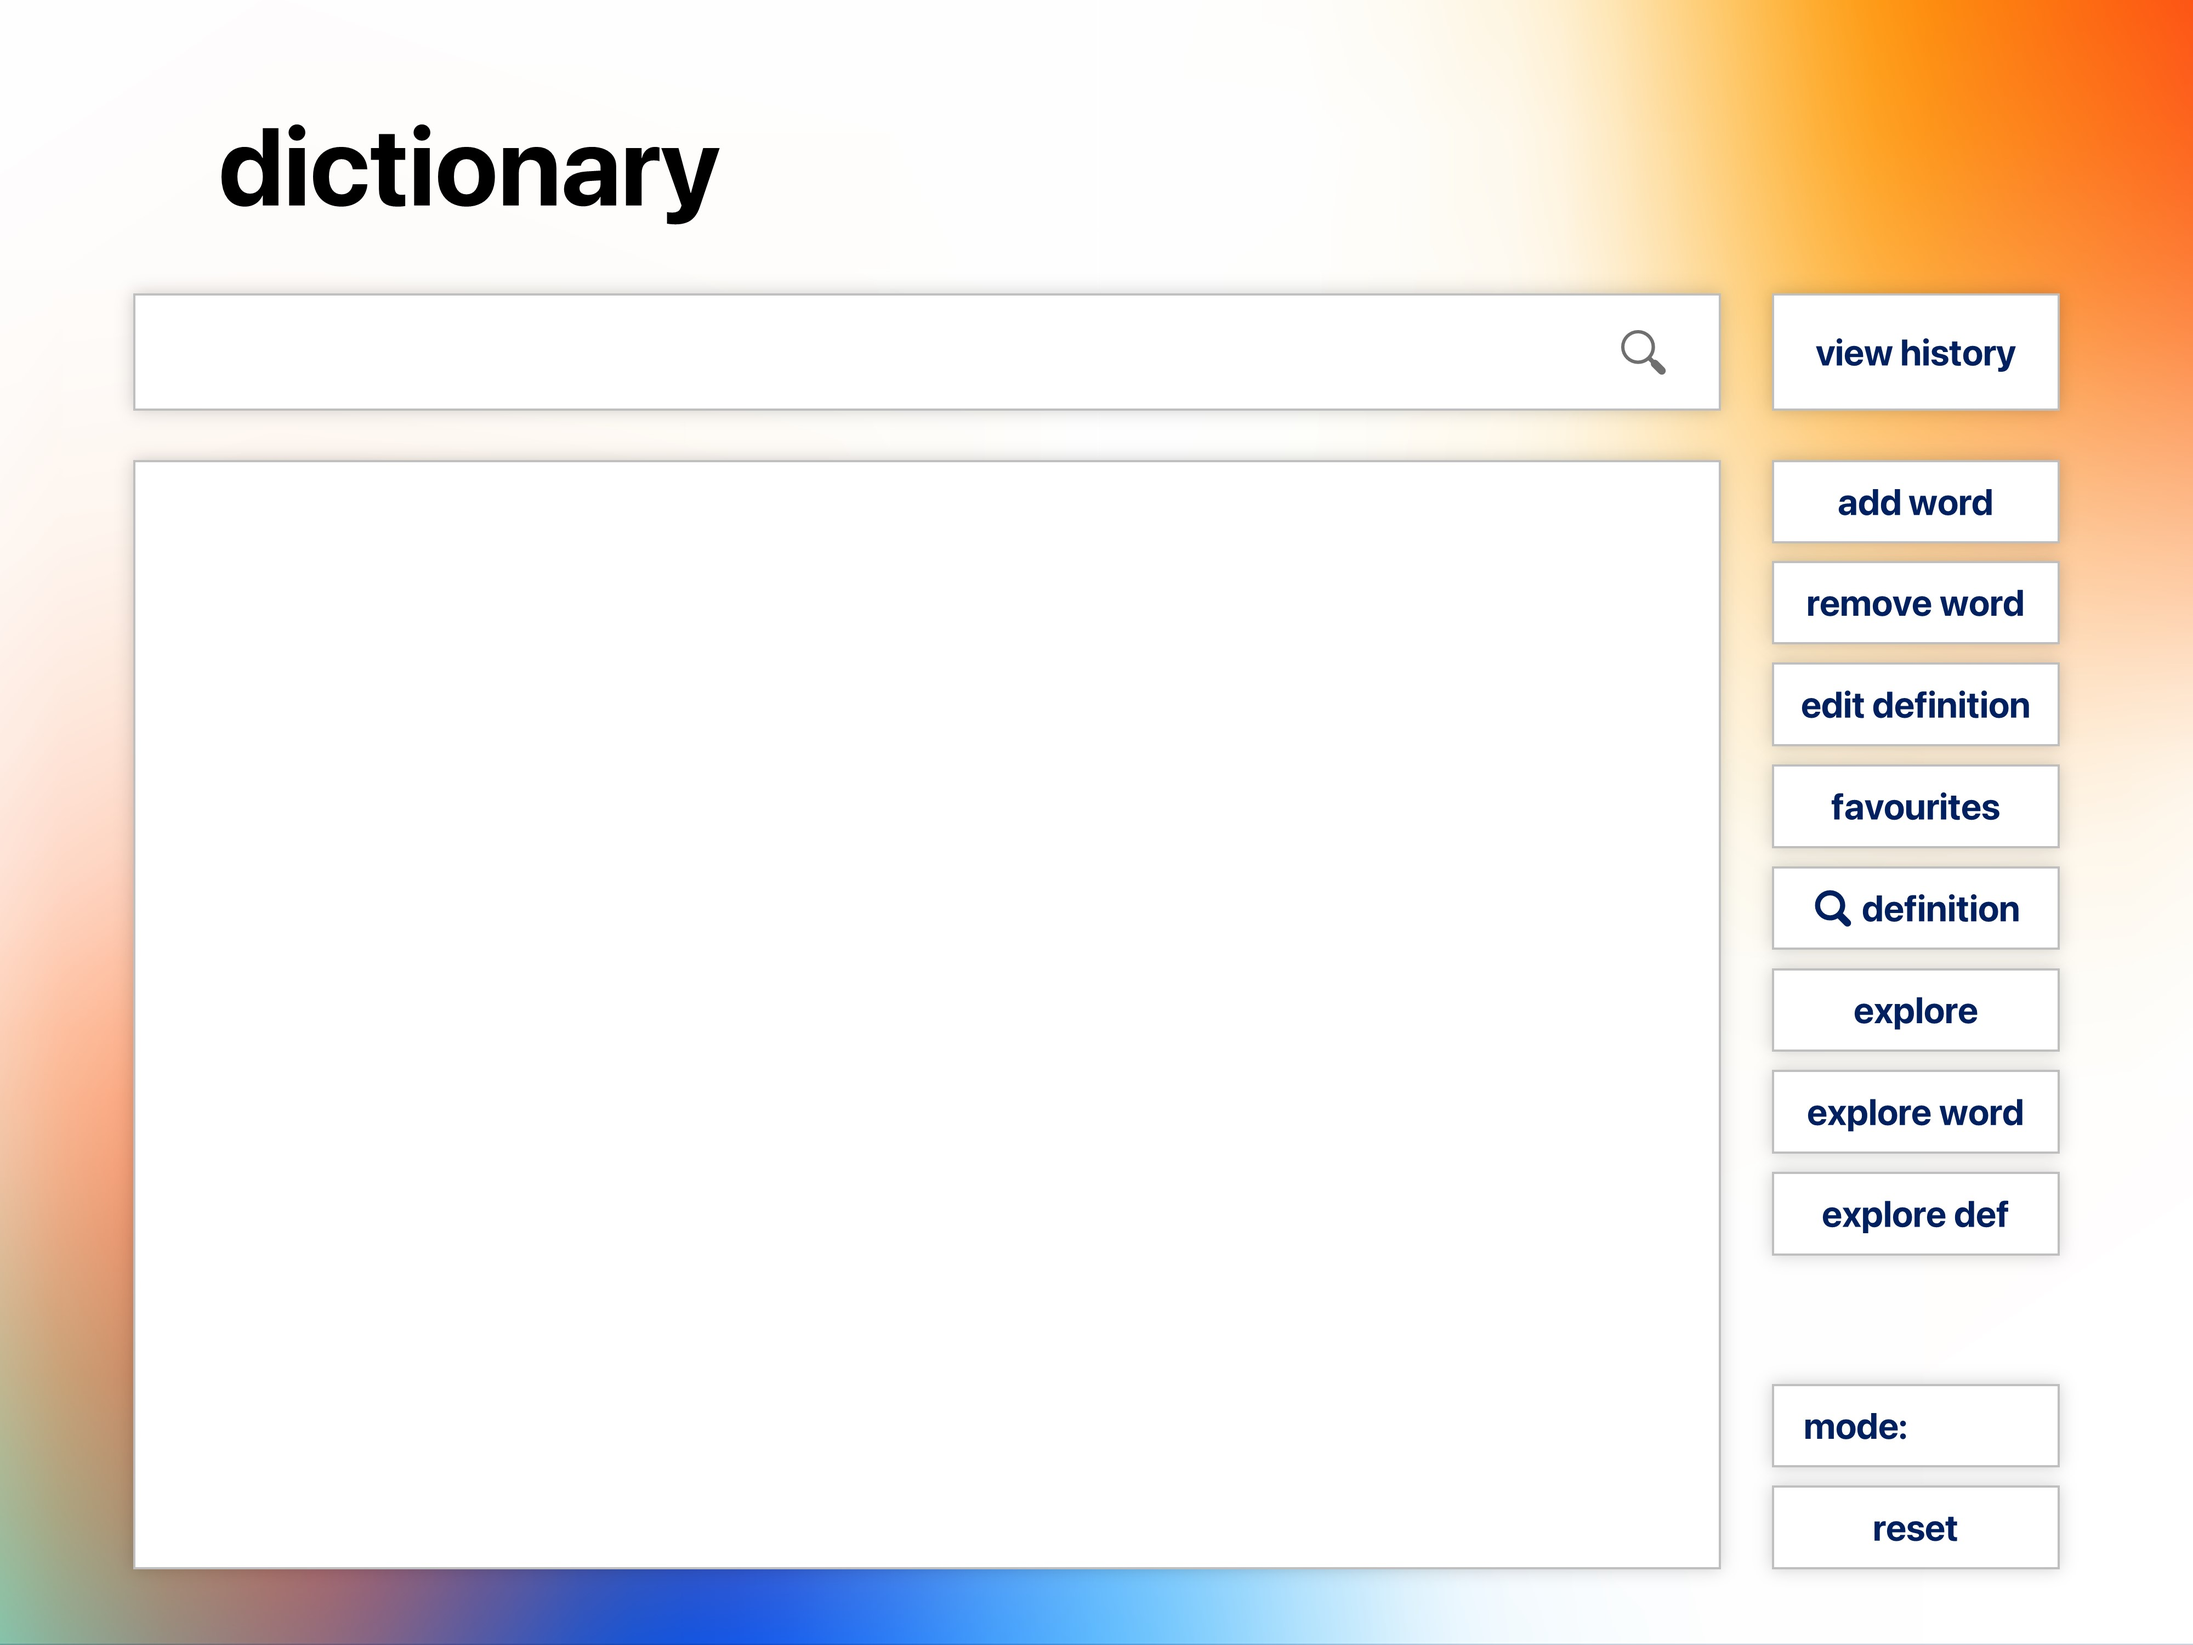
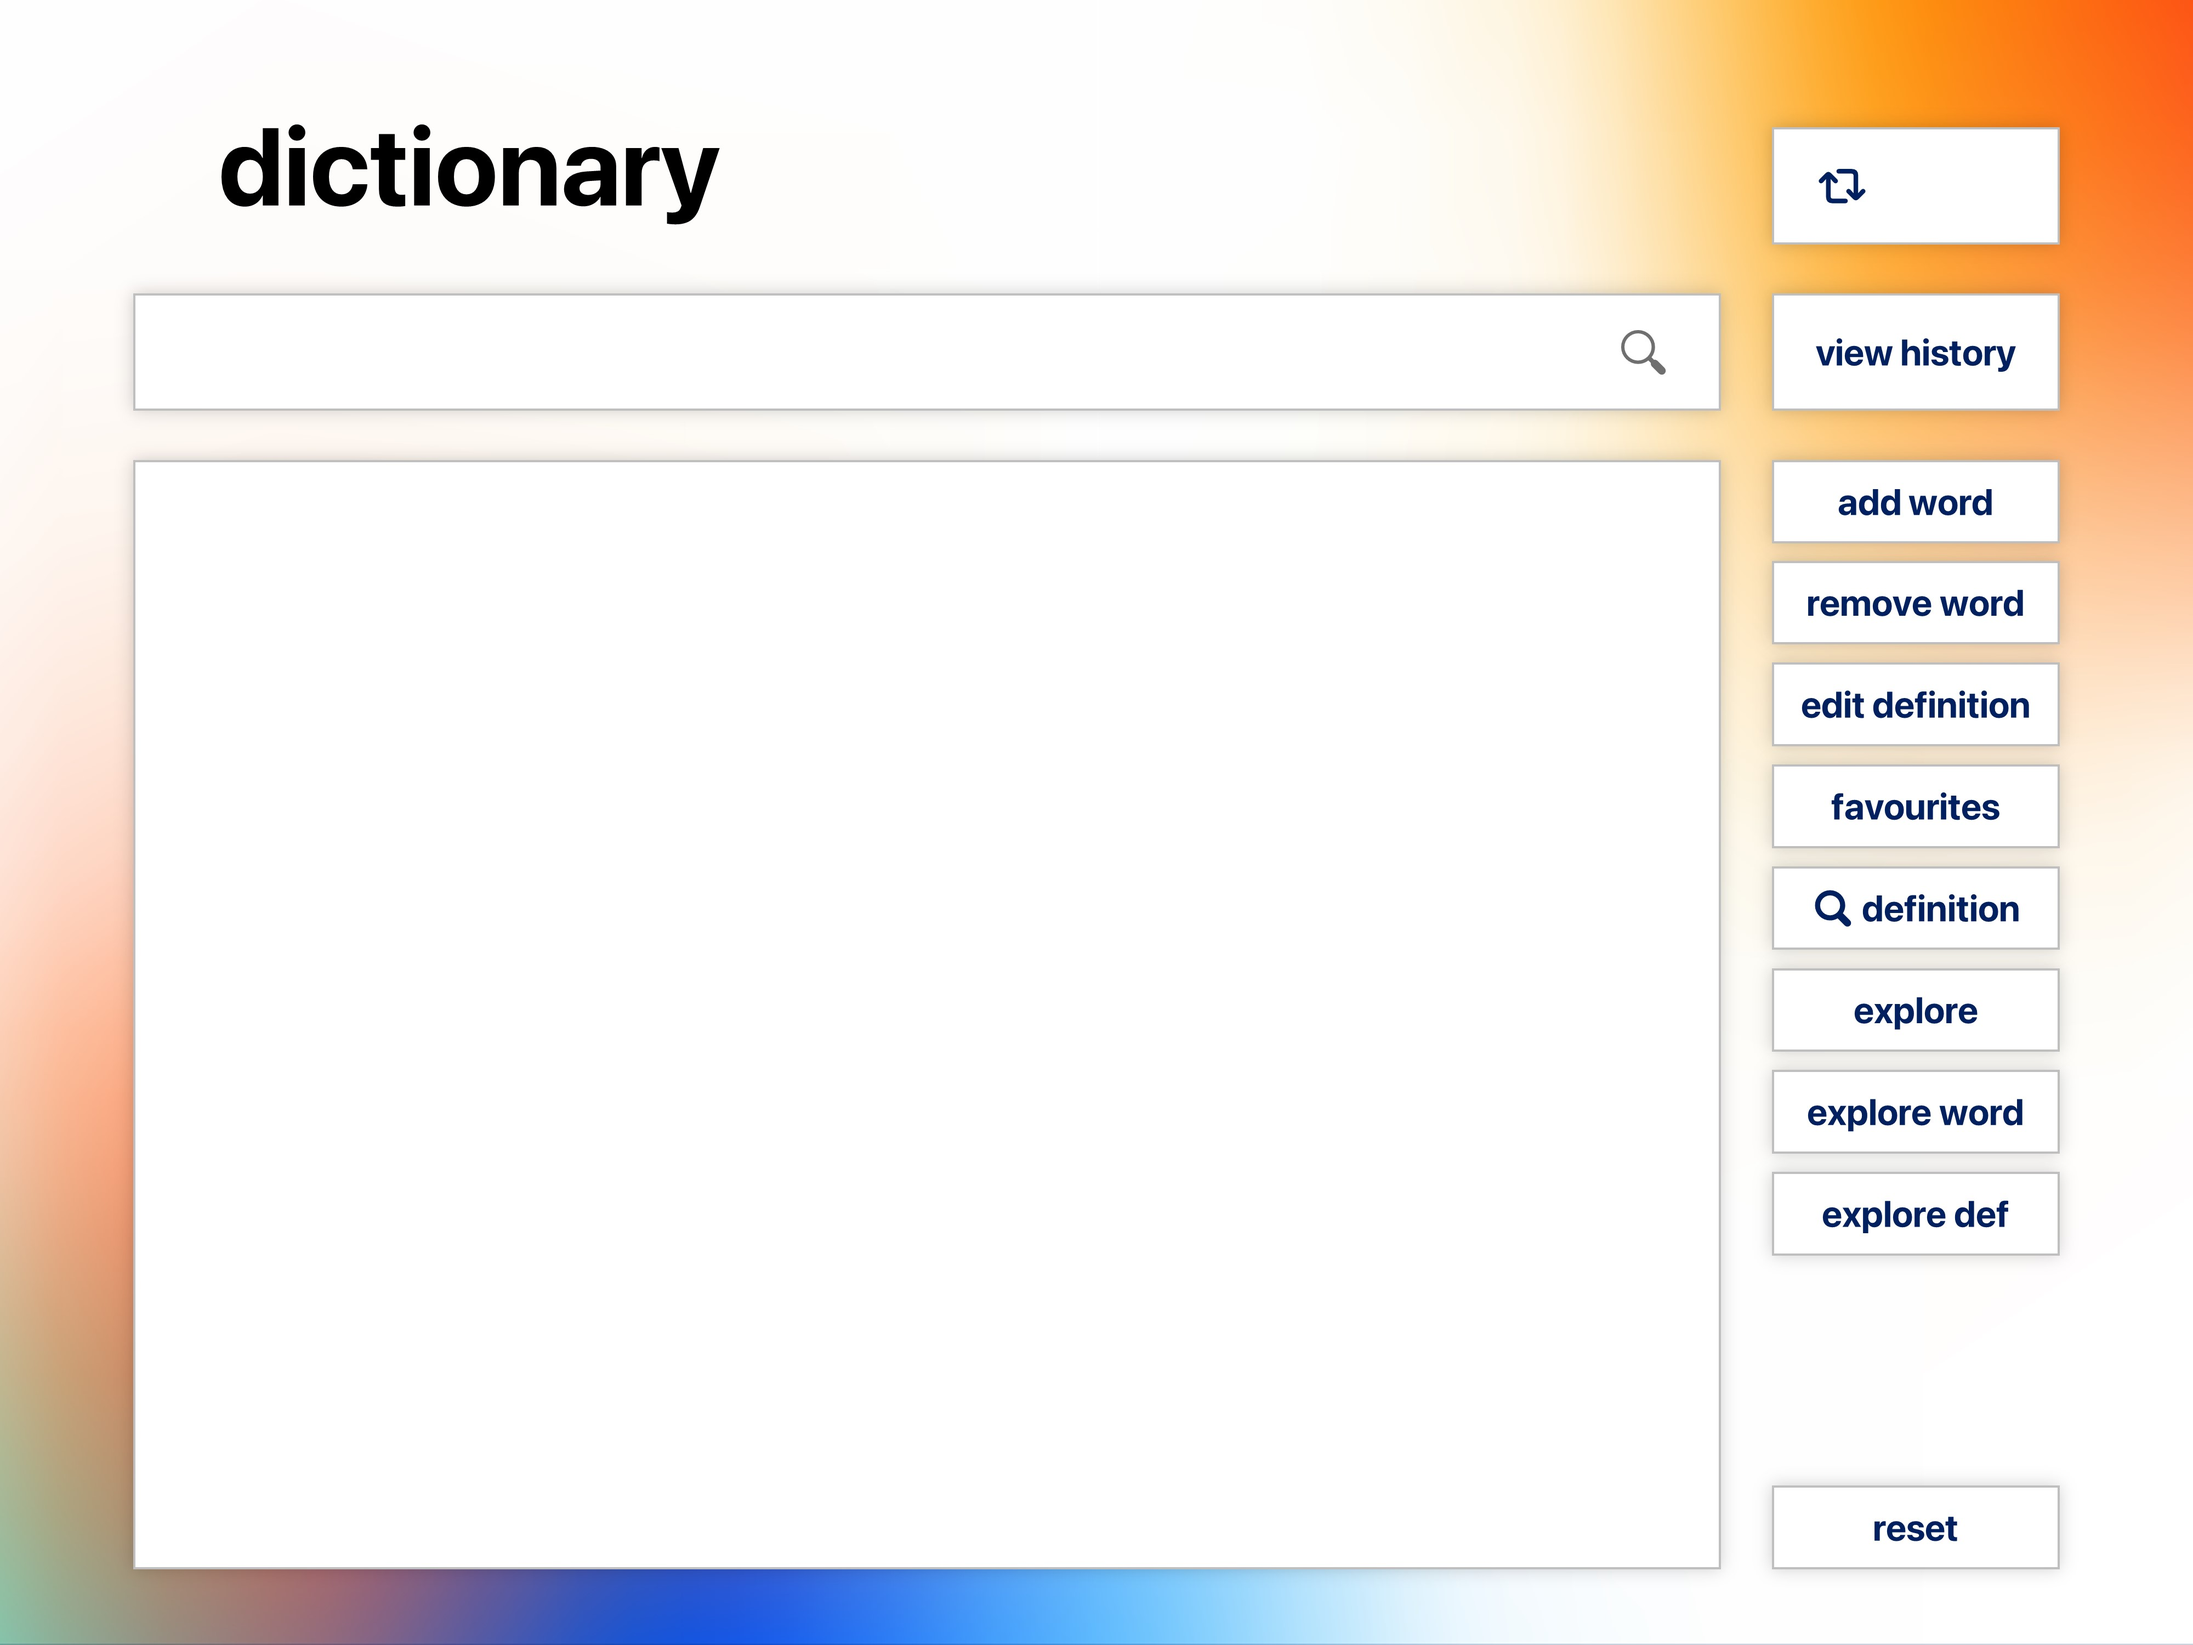
update UI, add new png and fix feature button can be chosen in main screen

Changed region(s): [[0.7812, 0.062, 0.9375, 0.155], [0.8125, 0.837, 0.875, 0.899]]

diff --git a/ConsoleApplication1/Application.cpp b/ConsoleApplication1/Application.cpp
@@ -12,20 +12,22 @@ Application::Application() :
     menuButton("", { 153, 60 }, 20, sf::Color::Transparent, sf::Color::Transparent),
     addButton("", { 153, 42 }, 20, sf::Color::Transparent, sf::Color::Transparent),
     editDefButton("", { 153, 42 }, 20, sf::Color::Transparent, sf::Color::Transparent),
-    favouritebutton("",{153,42},20,sf::Color::Transparent,sf::Color::Transparent),
+    favouritebutton("", { 153,42 }, 20, sf::Color::Transparent, sf::Color::Transparent),
     engEngRoot(nullptr),
     history(),
     currentScreen(ScreenState::MainScreen),
     editDefScreen(nullptr),
     newWord(nullptr),
-    displayBox({72, 240}, {880, 610}, sf::Color::Transparent, sf::Color::Black),
-    dataSetBar()
+    displayBox({ 72, 240 }, { 880, 610 }, sf::Color::Transparent, sf::Color::Black),
+    dataSetButton("      EN - EN", { 153, 60 }, 20, sf::Color::Transparent, sf::Color::Black)
+    //dataSetBar()
 {
     initWindow();
     initBackground();
     initFont();
     initSearchBar();
     initSearchButton();
+    initDataSetButton();
     initMenuButton();
     initAddButton();
     initEditDefButton();
@@ -183,6 +185,22 @@ void Application::initSearchButton()
     searchButton.setOutlineThickness(2);
 }
 
+void Application::initDataSetText()
+{
+    dataSetText.setFont(font);
+	dataSetText.setPosition({ 972, 50 });
+	dataSetText.setCharacterSize(20);
+	dataSetText.setFillColor(sf::Color::Black);
+}
+
+void Application::initDataSetButton()
+{
+	dataSetButton.setFont(font);
+	dataSetButton.setPosition({ 972, 72 });
+	dataSetButton.setOutlineThickness(2);
+    dataSetButton.setStyle(sf::Text::Style::Bold);
+}
+
 void Application::initMenuButton()
 {
 	menuButton.setFont(font);
@@ -215,6 +233,23 @@ void Application::initFavouriteButton()
     favouritebutton.setFont(font);
     favouritebutton.setPosition({ 972, 420 });
     favouritebutton.setOutlineThickness(2);
+}
+
+void Application::changeDataSet()
+{
+    if (currentDataSet != 3)
+		++currentDataSet;
+	else
+		currentDataSet = 0;
+    std::cout << currentDataSet << std::endl;
+    if (currentDataSet == 0)
+        dataSetButton.setString("      EN - EN");
+    else if (currentDataSet == 1)
+        dataSetButton.setString("      EN - VI");
+	else if (currentDataSet == 2)
+        dataSetButton.setString("      VI - EN");
+	else
+        dataSetButton.setString("      Emoji");
 }
 
 void Application::run()
@@ -281,7 +316,7 @@ void Application::handleEvent()
                     else
                         currentScreen = ScreenState::MainScreen;
                 }
-                else if (addButton.isMouseOver(window))
+                else if (addButton.isMouseOver(window) && currentScreen == ScreenState::OptionsScreen)
                 {
                     if (newWord == nullptr)
                     {
@@ -289,7 +324,7 @@ void Application::handleEvent()
                     }
                     currentScreen = ScreenState::AddScreen;
                 }
-                else if(editDefButton.isMouseOver(window))
+                else if(editDefButton.isMouseOver(window) && currentScreen == ScreenState::OptionsScreen)
                 {
                     if(editDefScreen == nullptr)
                     {
@@ -297,7 +332,7 @@ void Application::handleEvent()
                     }
                     currentScreen = ScreenState::EditDefinitionScreen;
                 }
-                else if (favouritebutton.isMouseOver(window))
+                else if (favouritebutton.isMouseOver(window) && currentScreen == ScreenState::OptionsScreen)
                 {
                     Favourite(window);
                 }
@@ -309,9 +344,9 @@ void Application::handleEvent()
                 {
                     displayBox.showPrevDef();
                 }
-                else if(dataSetBar.isMouseOverSwitchButton(window))
+                else if(dataSetButton.isMouseOver(window))
                 {
-                    dataSetBar.changeCurDataSet();
+                    changeDataSet();
                 }
             }
         }
@@ -349,12 +384,14 @@ void Application::update()
     if(currentScreen == ScreenState::MainScreen)
     {
         searchButton.update(window);
+        dataSetButton.update(window);
         menuButton.update(window);
         displayBox.update(window);
     }
     else if(currentScreen == ScreenState::OptionsScreen)
     {
         searchButton.update(window);
+        dataSetButton.update(window);
         menuButton.update(window);
         addButton.update(window);
         editDefButton.update(window);
@@ -381,21 +418,25 @@ void Application::render()
         window.draw(mainScreen);
         searchBar.drawTo(window);
         searchButton.drawTo(window);
+        dataSetButton.drawTo(window);
+
         history.drawTo(window);
         menuButton.drawTo(window);
         displayBox.drawTo(window);
-        dataSetBar.drawTo(window);
+        //dataSetBar.drawTo(window);
     }
     else if(currentScreen == ScreenState::OptionsScreen) {
         window.draw(screenWithOptions);
         searchBar.drawTo(window);
         searchButton.drawTo(window);
+        dataSetButton.drawTo(window);
+
         menuButton.drawTo(window);
         addButton.drawTo(window);
         editDefButton.drawTo(window);
         favouritebutton.drawTo(window);
         displayBox.drawTo(window);
-        dataSetBar.drawTo(window);
+        //dataSetBar.drawTo(window);
     }
     else if(currentScreen == ScreenState::EditDefinitionScreen) {
         editDefScreen->render(window);

diff --git a/ConsoleApplication1/SwitchDataSet.cpp b/ConsoleApplication1/SwitchDataSet.cpp
@@ -29,7 +29,7 @@ void DataSetBar::initVariables()
     dataSetBarTex->setSmooth(true);
     dataSetBar = new sf::Sprite();
     dataSetBar->setTexture(*dataSetBarTex);
-    dataSetBar->setScale(0.5f, 0.5f);
+    dataSetBar->setScale(1.f, 1.f);
     dataSetBar->setPosition(sf::Vector2f(420.f, 60.f));
     // Initialize switch button;
     switchButton = new sf::CircleShape(22.f);
@@ -37,7 +37,7 @@ void DataSetBar::initVariables()
     switchButton->setPosition(sf::Vector2f(748.f, 75.f));
     // Initialize text
     curDataSetText = new sf::Text;
-    curDataSetText->setString("ENGLISH - ENGLISH");
+    curDataSetText->setString("EN - EN");
     curDataSetText->setCharacterSize(25);
     float xText = dataSetBar->getPosition().x + 44.f;
     float yText = dataSetBar->getPosition().y + 22.f;
@@ -88,18 +88,18 @@ void DataSetBar::changeCurDataSet()
         ++curDataSetID;
     if(curDataSetID == 0)
     {
-        curDataSetText->setString("ENGLISH - ENGLISH");
+        curDataSetText->setString("EN - EN");
     }
     else if(curDataSetID == 1)
     {
-        curDataSetText->setString("ENGLISH - VIETNAMESE");
+        curDataSetText->setString("EN - VI");
     }
     else if(curDataSetID == 2)
     {
-        curDataSetText->setString("VIETNAMESE - ENGLISH");
+        curDataSetText->setString("VI - EN");
     }
     else if(curDataSetID == 3)
     {
-        curDataSetText->setString("EMOJIS");
+        curDataSetText->setString("EMOJI");
     }
 }

diff --git a/ConsoleApplication1/Button.cpp b/ConsoleApplication1/Button.cpp
@@ -30,16 +30,16 @@ void Button::setPosition(const sf::Vector2f &point) {
     button.setPosition(point);
 
     // Center text on button:
-    float xPos = (point.x + btnWidth / 2) - (text.getLocalBounds().width / 2);
-    float yPos = (point.y + btnHeight / 2.2) - (text.getLocalBounds().height / 2);
+    float xPos = (point.x + btnWidth / 2.0) - (text.getLocalBounds().width / 2);
+    float yPos = (point.y + btnHeight / 2.5) - (text.getLocalBounds().height / 2);
     text.setPosition(xPos, yPos);
 }
 
 void Button::setPosition(float x, float y)
 {
     button.setPosition(x, y);
-    float xPos = (x + btnWidth / 2) - (text.getLocalBounds().width / 2);
-    float yPos = (y + btnHeight / 2.2) - (text.getLocalBounds().height / 2);
+    float xPos = (x + btnWidth / 2.0) - (text.getLocalBounds().width / 2);
+    float yPos = (y + btnHeight / 2.5) - (text.getLocalBounds().height / 2);
     text.setPosition(xPos, yPos);
 }
 
@@ -89,4 +89,14 @@ void Button::update(sf::RenderWindow& window)
     else {
 		button.setOutlineColor(sf::Color::Transparent);
 	}
+}
+
+void Button::setString(std::string text)
+{
+    this->text.setString(text);
+}
+
+void Button::setStyle(sf::Text::Style style)
+{
+    text.setStyle(style);
 }

diff --git a/ConsoleApplication1/DisplayDefinition.cpp b/ConsoleApplication1/DisplayDefinition.cpp
@@ -47,20 +47,20 @@ DisplayBox::DisplayBox(const sf::Vector2f& pos, const sf::Vector2f& size,
     prevButtonTex.setSmooth(true);
 
     nextButtonSprite.setTexture(nextButtonTex);
-    nextButtonSprite.setTextureRect(sf::IntRect(280, 320, 380, 150));
+    //nextButtonSprite.setTextureRect(sf::IntRect(280, 320, 380, 150));
 
     prevButtonSprite.setTexture(prevButtonTex);
-    prevButtonSprite.setTextureRect(sf::IntRect(280, 320, 380, 150));
+    //prevButtonSprite.setTextureRect(sf::IntRect(280, 320, 380, 150));
     
     // std::cout << nextButtonTex->getSize().x << " " << nextButtonTex->getSize().y << std::endl;
     // std::cout << prevButtonTex->getSize().x << " " << prevButtonTex->getSize().y << std::endl;
 
     nextButtonSprite.setPosition(700, 700);
-    nextButtonSprite.setScale(0.3f, 0.3f);
+    nextButtonSprite.setScale(0.5f, 0.5f);
     showNextButton = false;
 
-    prevButtonSprite.setPosition(560, 700);
-    prevButtonSprite.setScale(0.3f, 0.3f);
+    prevButtonSprite.setPosition(620, 700);
+    prevButtonSprite.setScale(0.5f, 0.5f);
     showPrevButton = false;
 }
 

diff --git a/ConsoleApplication1/Application.h b/ConsoleApplication1/Application.h
@@ -43,21 +43,31 @@ private:
 
     ScreenState currentScreen;
 
+    int currentDataSet = 0;
+        /*
+            0: EngEng
+            1: EngVie
+            2: VieEng
+            3: Emoji
+        */
+
     sf::Font font;
 
     sf::Event event;
 
     Textbox searchBar;
+    sf::Text dataSetText;
 
     Button searchButton;
     Button menuButton;
+    Button dataSetButton;
     Button addButton;
     Button editDefButton;
     Button favouritebutton;
 
     History history;
     DisplayBox displayBox;
-    DataSetBar dataSetBar;
+    //DataSetBar dataSetBar;
 
     EngTrieNode* engEngRoot;
 
@@ -69,11 +79,14 @@ private:
     void initFont();
     void initSearchBar();
     void initSearchButton();
+    void initDataSetText();
+    void initDataSetButton();
     void initMenuButton();
     void initAddButton();
     void initEditDefButton();
     void initDisplayBox();
     void initFavouriteButton();
+    void changeDataSet();
 };
 
 #endif

diff --git a/ConsoleApplication1/Button.h b/ConsoleApplication1/Button.h
@@ -31,6 +31,10 @@ public:
 	bool isMouseOver(sf::RenderWindow& window);
 
 	void update(sf::RenderWindow& window);
+
+	void setString(std::string text);
+
+	void setStyle(sf::Text::Style style);
 private:
 	sf::Text text;
 	sf::RectangleShape button;
